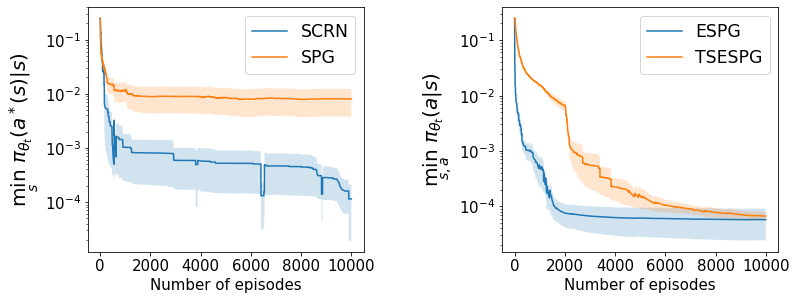
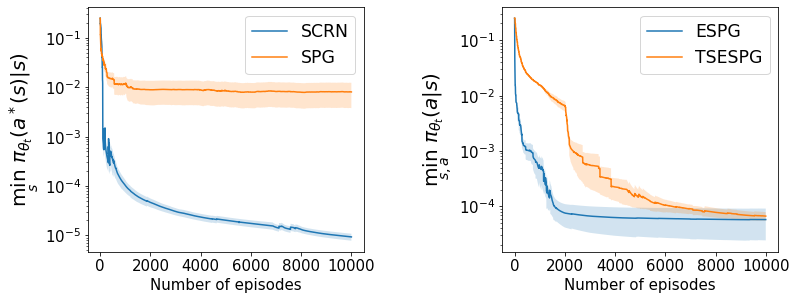
Final commit

diff --git a/run.py b/run.py
@@ -9,8 +9,6 @@ from environments.gym_utils import *
 
 def start_experiment(environment, algos, num_episodes, test_freq, num_avg):
 
-    np.random.seed(0)
-
     if environment == "random_maze":  # select random maze
         env_id = "RandomMaze-v0"
         gym.envs.register(id=env_id, entry_point=RandomMaze, max_episode_steps=100)
@@ -40,6 +38,11 @@ def start_experiment(environment, algos, num_episodes, test_freq, num_avg):
         for algo in algos:
             algo_params = {**params, "alpha": alphas[algo]}
             algo_name = to_run[algo]
+            if algo == "SPG Entropy" or algo == "Two stages SPG Entropy":
+                algo_params = {**algo_params, "entropy_bonus": True}
+            if algo == "Two stages SPG Entropy":
+                two_phase_params = {"B1": 16, "B2": 1, "T": int(num_episodes/5)}
+                algo_params = {**algo_params, "two_phases_params": two_phase_params}
             print(f"========== TRAINING RUN {i} OUT OF {num_avg} WITH {algo} ===========")
             current_stats = algo_name(**algo_params)
             stats[algo].update({i: current_stats})
@@ -57,4 +60,5 @@ def start_experiment(environment, algos, num_episodes, test_freq, num_avg):
         pickle.dump({"avg": average_stats, "std": std_stats}, handle, protocol=pickle.HIGHEST_PROTOCOL)
 
 
-start_experiment("random_maze", ["SCRN"], num_episodes=10000, test_freq=50, num_avg=10)
+start_experiment("hole", ["SCRN", "SPG", "SPG Entropy", "Two stages SPG Entropy"],
+                 num_episodes=10000, test_freq=50, num_avg=10)

diff --git a/utils/utils.py b/utils/utils.py
@@ -134,7 +134,7 @@ def plot_stats(average_stats, std_stats, num_episodes, test_freq):
     """
     legend_keys = {"steps": "Episode length",
                    "taus": r"$\frac{J(\theta^{*}) - J(\theta)}{\| \| \nabla J(\theta) \| \|}$",
-                   "taus entropy": r"$\frac{J^\lambda(\theta_\lambda^{*}) - J^\lambda(\theta)}{\| \| \nabla J^\lambda(\theta) \| \|^{2}}$",
+                   "taus entropy": r"$\frac{J^\lambda(\theta^{*}) - J^\lambda(\theta)}{\| \| \nabla J^\lambda(\theta) \| \|^{2}}$",
                    "rewards": "Episode reward",
                    "obj_estimates": r"$J(\theta)$",
                    "grad_estimates": r"$\| \| \nabla J(\theta) \| \|$",
@@ -282,7 +282,7 @@ def final_trajectory(environment, algo, theta):
         plt.axis("off")
         plt.imshow(screen)
         plt.tight_layout()
-        plt.savefig(f"figures/{environment}/{algo}_{count}.png")
+        # plt.savefig(f"figures/{environment}/{algo}_{count}.png")
         plt.show()
 
         # Get probabilities per action from current policy
